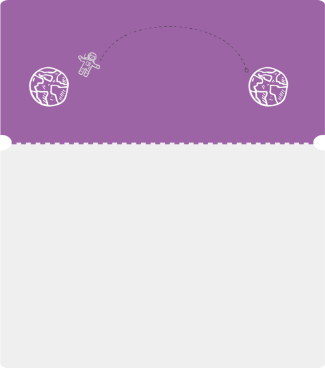
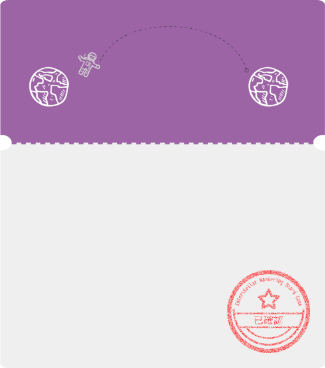
finish boarding pass mobile style

Changed region(s): [[0.6769, 0.7174, 0.9538, 0.9565]]

diff --git a/src/components/boardingPass/BoardingPassMobile.js b/src/components/boardingPass/BoardingPassMobile.js
@@ -11,22 +11,18 @@ const {bookingId, bookingDate, orderPlaceDate, startTime, bookingName, bookingCo
 
 const BoardingPassMobile = () => {
     return (
-        <div className="boarding-pass-mobile-wrapper">
-            <img className="boarding-pass" src={boardingPassMobile} alt="boarding pass" />
+        <div className="boarding-pass-mobile-wrapper" style={{fontSize:"12px"}}>
+            <img className="boarding-pass" src={bookingId?boardingPassStampMobile:boardingPassMobile} alt="boarding pass" />
             <div className="booking-info-wrapper-m">
-                    <div className="main-text-wrapper-m">
-                        <div className="booking-main-info-row-m"><div className="booking-info-title-m">訂單編號</div><div className="booking-info-content-m">{bookingId || <i>待確認</i>}</div></div>
-                        <div className="booking-main-info-row-m"><div className="booking-info-title-m">訂位大名</div><div className="booking-info-content-m">{bookingName}</div></div>
-                        <div className="booking-main-info-row-m"><div className="booking-info-title-m">訂單成立日</div><div className="booking-info-content-m">{orderPlaceDate}</div></div>
-                        <div className="booking-main-info-row-m"><div className="booking-info-title-m">聯絡資訊</div><div className="booking-info-content-m">{bookingContact}</div></div>
-                        <div className="booking-main-info-row-m"><div className="booking-info-title-m">人數</div><div className="booking-info-content-m">{people} 人</div></div>
-                    </div>
-                    <div className="sub-text-wrapper-m">
-                        <div className="booking-sub-info-row-m"><div className="booking-sub-info-title-m">訂位日期</div><div className="booking-sub-info-content-m">{bookingDate}</div></div>
-                        <div className="booking-sub-info-row-m"><div className="booking-sub-info-title-m">訂位時間</div><div className="booking-sub-info-content-m">{startTime}:00</div></div>
-                        <div className="booking-sub-info-row-m"><div className="booking-sub-info-title-m">訂位地點</div><div className="booking-sub-info-content-m">{storeName}</div></div>
-                    </div>
-                </div>
+                <div className="booking-main-info-row-m"><div className="booking-info-title-m">訂單編號</div><div className="booking-info-content-m">{bookingId || <i>待確認</i>}</div></div>
+                <div className="booking-main-info-row-m"><div className="booking-info-title-m">訂位大名</div><div className="booking-info-content-m">{bookingName}</div></div>
+                <div className="booking-main-info-row-m"><div className="booking-info-title-m">訂單成立日</div><div className="booking-info-content-m">{orderPlaceDate}</div></div>
+                <div className="booking-main-info-row-m"><div className="booking-info-title-m">聯絡資訊</div><div className="booking-info-content-m">{bookingContact}</div></div>
+                <div className="booking-main-info-row-m"><div className="booking-info-title-m">人數</div><div className="booking-info-content-m">{people} 人</div></div>
+                <div className="booking-main-info-row-m"><div className="booking-info-title-m">訂位日期</div><div className="booking-info-content-m">{bookingDate}</div></div>
+                <div className="booking-main-info-row-m"><div className="booking-info-title-m">訂位時間</div><div className="booking-info-content-m">{startTime}:00</div></div>
+                <div className="booking-main-info-row-m"><div className="booking-info-title-m">訂位地點</div><div className="booking-info-content-m">{storeName}</div></div>
+            </div>
         </div>
     )
 }

diff --git a/src/components/boardingPass/boardingPassMobile.css b/src/components/boardingPass/boardingPassMobile.css
@@ -6,6 +6,32 @@
 	position: relative;
 	/* todo: fix font size */
 }
-
 .booking-info-wrapper-m {
+	position: absolute;
+	left: 15px;
+	bottom: 25px;
+
+	display: flex;
+	flex-direction: column;
+	height: 150px;
+	flex-wrap: wrap;
+}
+.booking-main-info-row-m {
+	display: flex;
+	padding-bottom: 5px;
+	margin-bottom: 6px;
+	margin-right: 10px;
+	width: 145px;
+	border-bottom: 1px solid var(--light-purple);
+}
+
+.booking-info-title-m {
+	width: 60px;
+	text-align: center;
+	margin-right: 15px;
+}
+
+.booking-info-content-m {
+	width: 65px;
+	text-align: center;
 }

diff --git a/public/index.html b/public/index.html
@@ -30,7 +30,7 @@
     <style>
       *{
         font-family: 'Noto Sans TC', sans-serif;
-        font-size: 16px;
+        /* font-size: 16px; */
       }
       body{
         background-image: radial-gradient(circle, #1f3350, #1f345f, #3a4993, #5a50b1, #8353cc);

diff --git a/src/components/Button.js b/src/components/Button.js
@@ -1,4 +1,5 @@
 //this button is supposed to be common button, just temporary
+// border-radius 4px
 import React from 'react'
 
 const Button = (props) => {
